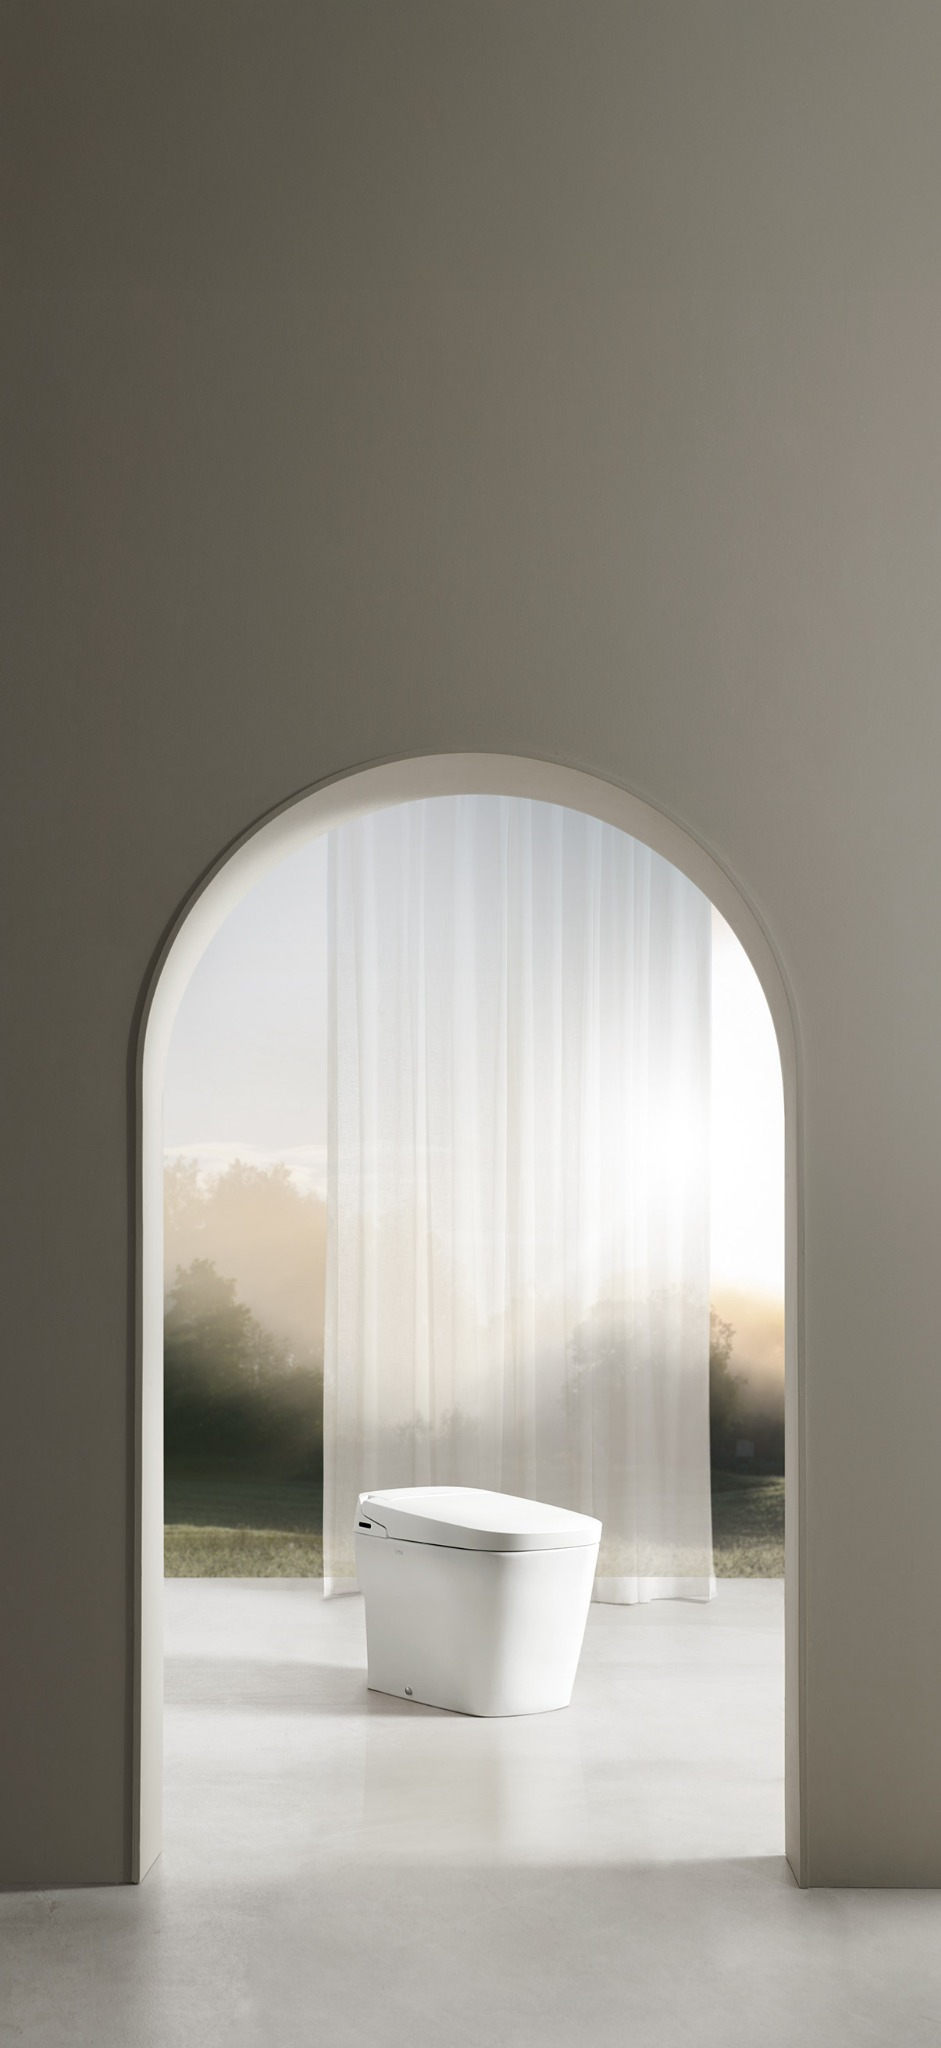
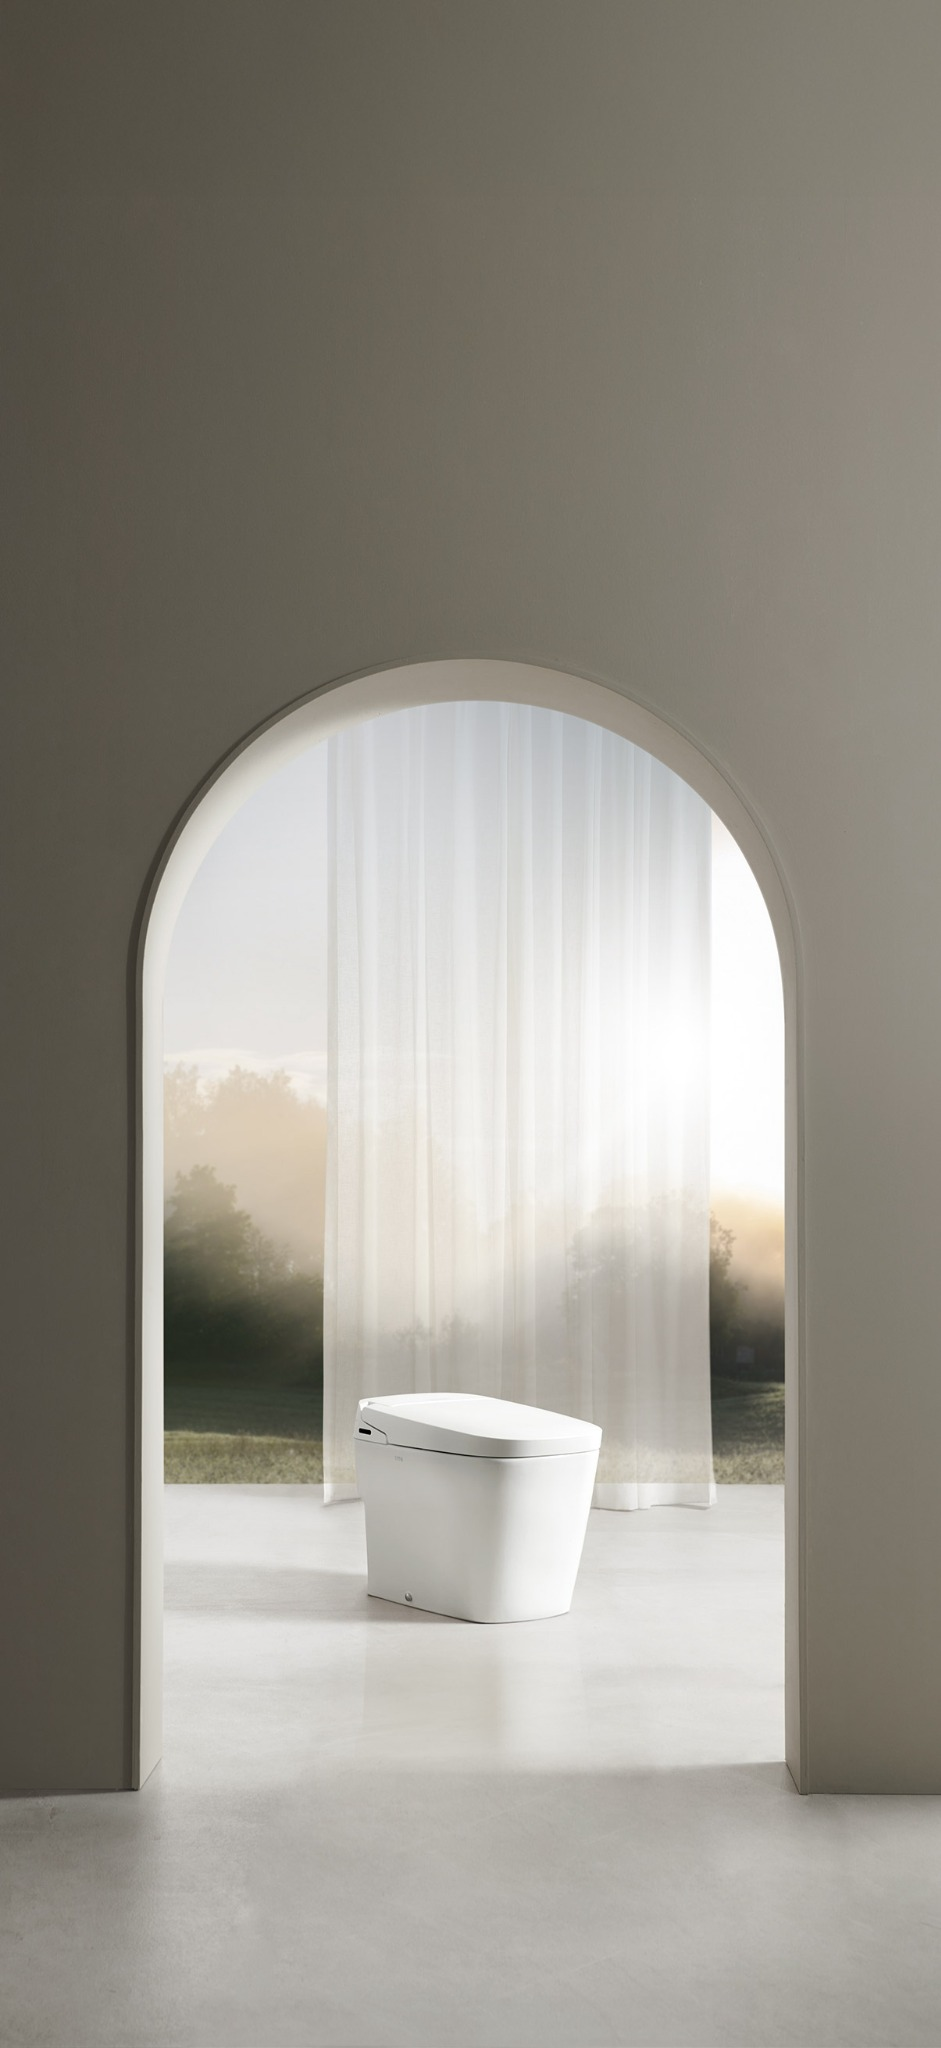
Add files via upload

Changed region(s): [[0.0, 0.5, 1.0, 0.9688], [0.1233, 0.3125, 0.8321, 0.5312]]

diff --git a/style.css b/style.css
@@ -63,7 +63,7 @@ img {
 }
 
 .brand-logo {
-  width: clamp(145px, 10vw, 192px);
+  width: clamp(131px, 9vw, 173px);
   height: auto;
   margin: 0 auto clamp(32px, 4.5vh, 52px);
 }
@@ -194,7 +194,7 @@ h1 {
 
 @media (max-width: 767px) {
   :root {
-    --button-height: 54px;
+    --button-height: 49px;
     --button-radius: 17px;
   }
 
@@ -234,25 +234,25 @@ h1 {
   }
 
   h1 {
-    font-size: clamp(27px, 7.2vw, 34px);
+    font-size: clamp(24px, 6.5vw, 31px);
     line-height: 1.18;
   }
 
   .subtitle {
     margin-top: 12px;
-    font-size: clamp(20px, 5.2vw, 24px);
+    font-size: clamp(18px, 4.7vw, 22px);
   }
 
   .map-links {
-    margin-top: 34px;
+    margin-top: 31px;
     grid-template-columns: 1fr;
-    gap: 14px;
+    gap: 13px;
   }
 
   .map-button {
     min-height: var(--button-height);
     border-radius: var(--button-radius);
-    font-size: clamp(17px, 4.5vw, 20px);
+    font-size: clamp(15px, 4.05vw, 18px);
     font-weight: 500;
   }
 
@@ -268,12 +268,13 @@ h1 {
 
   .info-row {
     gap: 11px;
-    font-size: clamp(14px, 3.75vw, 17px);
+    font-size: clamp(13px, 3.4vw, 15px);
+    line-height: 1.18;
     white-space: nowrap;
   }
 
   .info-row + .info-row {
-    margin-top: 12px;
+    margin-top: 8px;
   }
 
   .info-row img {
@@ -295,25 +296,25 @@ h1 {
   }
 
   h1 {
-    font-size: 25px;
+    font-size: 23px;
   }
 
   .subtitle {
-    font-size: 19px;
+    font-size: 17px;
   }
 
   .map-links {
-    margin-top: 28px;
-    gap: 11px;
+    margin-top: 26px;
+    gap: 10px;
   }
 
   .map-button {
-    min-height: 50px;
-    font-size: 16px;
+    min-height: 46px;
+    font-size: 14px;
   }
 
   .info-row {
-    font-size: 13px;
+    font-size: 12px;
   }
 }
 